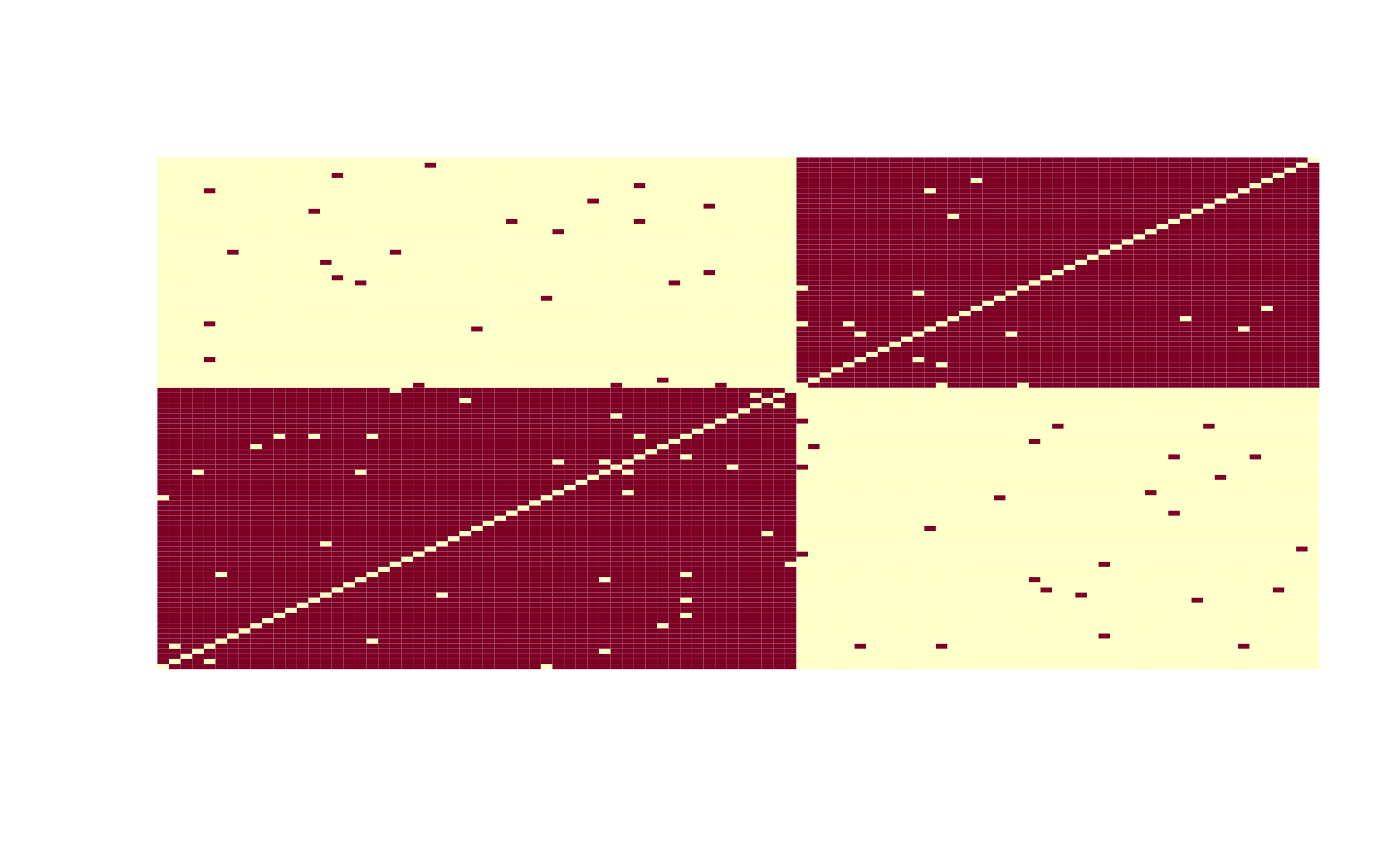
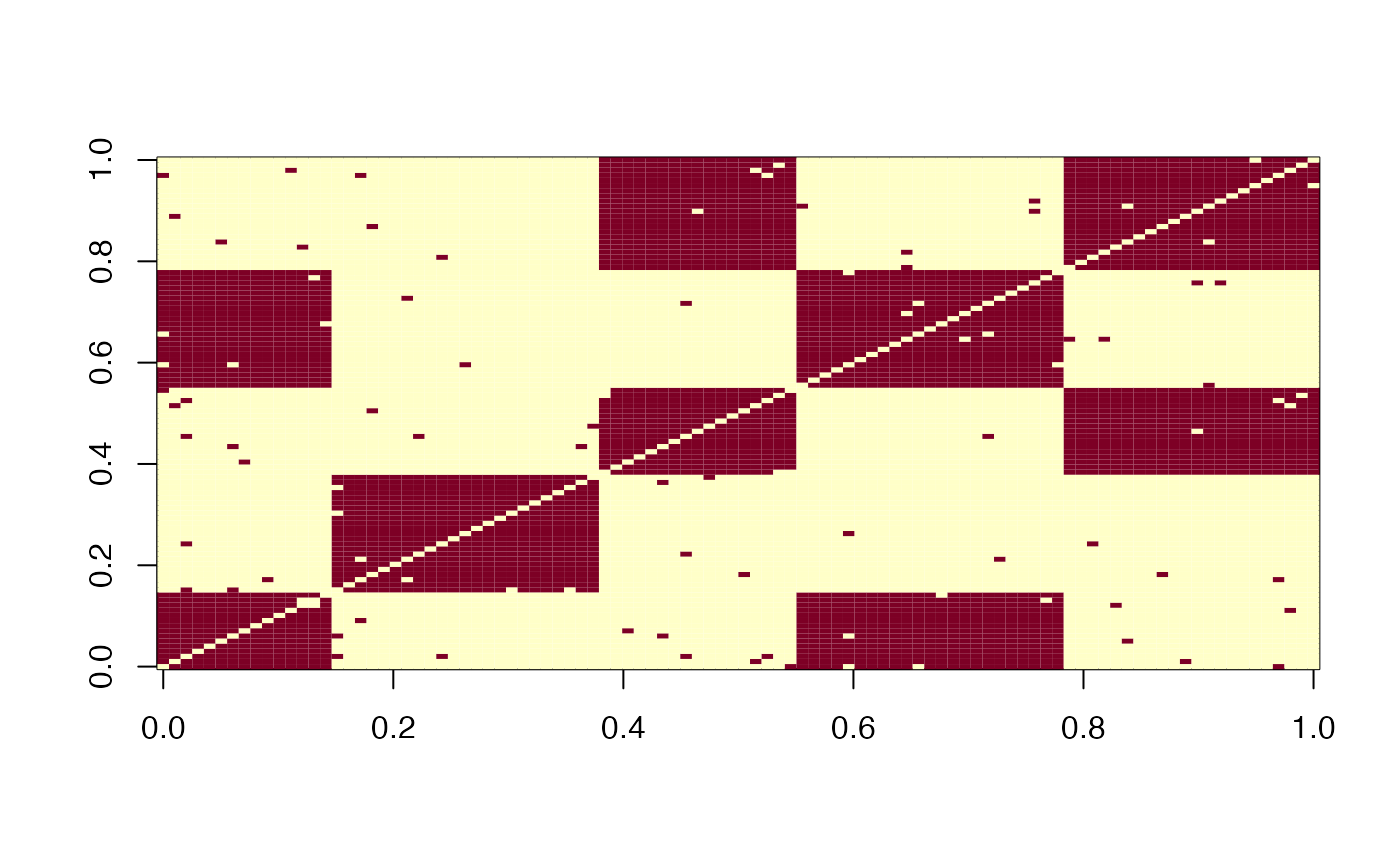
Update Vignette

diff --git a/docs/articles/Simulations.html b/docs/articles/Simulations.html
@@ -107,10 +107,17 @@
 <code class="sourceCode R"><span><span class="va">res</span> <span class="op">&lt;-</span> <span class="fu"><a href="../reference/rSMB_partition.html">rSMB_partition</a></span><span class="op">(</span>N <span class="op">=</span> <span class="va">N</span>,V <span class="op">=</span> <span class="va">V</span>,K <span class="op">=</span> <span class="va">K</span>,pi_k <span class="op">=</span> <span class="va">pi_k</span>,rho <span class="op">=</span> <span class="va">rho</span>,sorted <span class="op">=</span> <span class="va">sorted</span>,p_switch <span class="op">=</span> <span class="va">p_switch</span><span class="op">)</span></span></code></pre></div>
 <p>With the <code>plot_adjacency</code>function, adjacency matrices can be shown, and and linked to the parameters used for simulation.</p>
 <div class="sourceCode" id="cb4"><pre class="downlit sourceCode r">
-<code class="sourceCode R"><span><span class="fu"><a href="../reference/plot_adjacency.html">plot_adjacency</a></span><span class="op">(</span><span class="va">res</span><span class="op">$</span><span class="va">simulation</span><span class="op">$</span><span class="va">A</span><span class="op">)</span></span></code></pre></div>
-<p><img src="Simulations_files/figure-html/unnamed-chunk-4-1.png" width="700"><img src="Simulations_files/figure-html/unnamed-chunk-4-2.png" width="700"><img src="Simulations_files/figure-html/unnamed-chunk-4-3.png" width="700"><img src="Simulations_files/figure-html/unnamed-chunk-4-4.png" width="700"><img src="Simulations_files/figure-html/unnamed-chunk-4-5.png" width="700"><img src="Simulations_files/figure-html/unnamed-chunk-4-6.png" width="700"><img src="Simulations_files/figure-html/unnamed-chunk-4-7.png" width="700"><img src="Simulations_files/figure-html/unnamed-chunk-4-8.png" width="700"><img src="Simulations_files/figure-html/unnamed-chunk-4-9.png" width="700"><img src="Simulations_files/figure-html/unnamed-chunk-4-10.png" width="700"><img src="Simulations_files/figure-html/unnamed-chunk-4-11.png" width="700"></p>
-<p>In this simulation, we have 3 types of adjacency matrices, depending precisely on the mixture from which they are derived. From the <code>clusters</code> variable in the simulation we can see the link between true clustering and that partially accessible through simulated views.</p>
+<code class="sourceCode R"><span><span class="co">#plot_adjacency(res$simulation$A)</span></span>
+<span><span class="fu"><a href="https://rdrr.io/r/graphics/image.html" class="external-link">image</a></span><span class="op">(</span><span class="va">res</span><span class="op">$</span><span class="va">simulation</span><span class="op">$</span><span class="va">A</span><span class="op">[</span>,,<span class="fl">1</span><span class="op">]</span><span class="op">)</span></span></code></pre></div>
+<p><img src="Simulations_files/figure-html/unnamed-chunk-4-1.png" width="700"></p>
 <div class="sourceCode" id="cb5"><pre class="downlit sourceCode r">
+<code class="sourceCode R"><span><span class="fu"><a href="https://rdrr.io/r/graphics/image.html" class="external-link">image</a></span><span class="op">(</span><span class="va">res</span><span class="op">$</span><span class="va">simulation</span><span class="op">$</span><span class="va">A</span><span class="op">[</span>,,<span class="fl">3</span><span class="op">]</span><span class="op">)</span></span></code></pre></div>
+<p><img src="Simulations_files/figure-html/unnamed-chunk-4-2.png" width="700"></p>
+<div class="sourceCode" id="cb6"><pre class="downlit sourceCode r">
+<code class="sourceCode R"><span><span class="fu"><a href="https://rdrr.io/r/graphics/image.html" class="external-link">image</a></span><span class="op">(</span><span class="va">res</span><span class="op">$</span><span class="va">simulation</span><span class="op">$</span><span class="va">A</span><span class="op">[</span>,,<span class="fl">10</span><span class="op">]</span><span class="op">)</span></span></code></pre></div>
+<p><img src="Simulations_files/figure-html/unnamed-chunk-4-3.png" width="700"></p>
+<p>In this simulation, we have 3 types of adjacency matrices, depending precisely on the mixture from which they are derived. From the <code>clusters</code> variable in the simulation we can see the link between true clustering and that partially accessible through simulated views.</p>
+<div class="sourceCode" id="cb7"><pre class="downlit sourceCode r">
 <code class="sourceCode R"><span><span class="op">(</span><span class="va">clust</span> <span class="op">&lt;-</span> <span class="va">res</span><span class="op">$</span><span class="va">params</span><span class="op">$</span><span class="va">clusters</span><span class="op">)</span></span>
 <span><span class="co">#&gt; [[1]]</span></span>
 <span><span class="co">#&gt; [[1]][[1]]</span></span>
@@ -144,12 +151,12 @@
 <span><span class="co">#&gt; [[3]][[4]]</span></span>
 <span><span class="co">#&gt; [1] 2 3</span></span></code></pre></div>
 <p>This variable is difficult to understand at first glance, so we’ll explain its interpretation below.</p>
-<div class="sourceCode" id="cb6"><pre class="downlit sourceCode r">
+<div class="sourceCode" id="cb8"><pre class="downlit sourceCode r">
 <code class="sourceCode R"><span><span class="fu"><a href="https://rdrr.io/r/base/length.html" class="external-link">length</a></span><span class="op">(</span><span class="va">clust</span><span class="op">)</span></span>
 <span><span class="co">#&gt; [1] 3</span></span></code></pre></div>
 <p>This variable is a list with as many arguments as the number of components.</p>
 <p>Let’s take the example of the 1st element in the list:</p>
-<div class="sourceCode" id="cb7"><pre class="downlit sourceCode r">
+<div class="sourceCode" id="cb9"><pre class="downlit sourceCode r">
 <code class="sourceCode R"><span><span class="va">clust</span><span class="op">[[</span><span class="fl">1</span><span class="op">]</span><span class="op">]</span></span>
 <span><span class="co">#&gt; [[1]]</span></span>
 <span><span class="co">#&gt; [1] 1 2 3</span></span>
@@ -158,7 +165,7 @@
 <span><span class="co">#&gt; [1] 5 4</span></span></code></pre></div>
 <p>The adjacency matrices resulting from the 1st component will therefore have 2 clusters. In addition, based on true clustering, we associate the cluster observed in this component: - Clusters 1, 2 and 3 are in fact a single cluster, cluster 1, of this component. - Cluster 4 and 5 correspond to the cluster 2 for this component.</p>
 <p>If we look at the connection tensor linked to this simulation, we find the main structures observed previously.</p>
-<div class="sourceCode" id="cb8"><pre class="downlit sourceCode r">
+<div class="sourceCode" id="cb10"><pre class="downlit sourceCode r">
 <code class="sourceCode R"><span><span class="fu"><a href="https://rdrr.io/r/base/lapply.html" class="external-link">sapply</a></span><span class="op">(</span><span class="fl">1</span><span class="op">:</span><span class="fl">3</span>,<span class="kw">function</span><span class="op">(</span><span class="va">s</span><span class="op">)</span><span class="op">{</span><span class="fu"><a href="https://rdrr.io/r/graphics/image.html" class="external-link">image</a></span><span class="op">(</span><span class="va">res</span><span class="op">$</span><span class="va">params</span><span class="op">$</span><span class="va">alpha_klq</span><span class="op">[</span>,,<span class="va">s</span><span class="op">]</span><span class="op">)</span><span class="op">}</span><span class="op">)</span></span></code></pre></div>
 <p><img src="Simulations_files/figure-html/unnamed-chunk-8-1.png" width="700"><img src="Simulations_files/figure-html/unnamed-chunk-8-2.png" width="700"><img src="Simulations_files/figure-html/unnamed-chunk-8-3.png" width="700"></p>
 <pre><code><span><span class="co">#&gt; [[1]]</span></span>
@@ -178,7 +185,7 @@
 <h4 id="setup-of-parameters-1">Setup of parameters<a class="anchor" aria-label="anchor" href="#setup-of-parameters-1"></a>
 </h4>
 <p>This time we’ll set the label-switching to <span class="math inline">\(10\%\)</span>, the probability that an individual will be associated with the wrong cluster when the adjacency matrix is created.</p>
-<div class="sourceCode" id="cb10"><pre class="downlit sourceCode r">
+<div class="sourceCode" id="cb12"><pre class="downlit sourceCode r">
 <code class="sourceCode R"><span><span class="fu"><a href="https://rdrr.io/r/base/Random.html" class="external-link">set.seed</a></span><span class="op">(</span><span class="fl">42</span><span class="op">)</span></span>
 <span><span class="va">N</span> <span class="op">&lt;-</span> <span class="fl">100</span></span>
 <span><span class="va">V</span> <span class="op">&lt;-</span> <span class="fl">10</span></span>
@@ -191,18 +198,32 @@
 <div class="section level4">
 <h4 id="simulation-1">Simulation<a class="anchor" aria-label="anchor" href="#simulation-1"></a>
 </h4>
-<div class="sourceCode" id="cb11"><pre class="downlit sourceCode r">
+<div class="sourceCode" id="cb13"><pre class="downlit sourceCode r">
 <code class="sourceCode R"><span><span class="va">res</span> <span class="op">&lt;-</span> <span class="fu"><a href="../reference/rSMB_partition.html">rSMB_partition</a></span><span class="op">(</span>N <span class="op">=</span> <span class="va">N</span>,V <span class="op">=</span> <span class="va">V</span>,K <span class="op">=</span> <span class="va">K</span>,pi_k <span class="op">=</span> <span class="va">pi_k</span>,rho <span class="op">=</span> <span class="va">rho</span>,sorted <span class="op">=</span> <span class="va">sorted</span>,p_switch <span class="op">=</span> <span class="va">p_switch</span><span class="op">)</span></span></code></pre></div>
 <p>With the <code>plot_adjacency</code>function, adjacency matrices can be shown, and and linked to the parameters used for simulation.</p>
-<div class="sourceCode" id="cb12"><pre class="downlit sourceCode r">
-<code class="sourceCode R"><span><span class="fu"><a href="../reference/plot_adjacency.html">plot_adjacency</a></span><span class="op">(</span><span class="va">res</span><span class="op">$</span><span class="va">simulation</span><span class="op">$</span><span class="va">A</span><span class="op">)</span></span></code></pre></div>
-<p><img src="Simulations_files/figure-html/unnamed-chunk-11-1.png" width="700"><img src="Simulations_files/figure-html/unnamed-chunk-11-2.png" width="700"><img src="Simulations_files/figure-html/unnamed-chunk-11-3.png" width="700"><img src="Simulations_files/figure-html/unnamed-chunk-11-4.png" width="700"><img src="Simulations_files/figure-html/unnamed-chunk-11-5.png" width="700"><img src="Simulations_files/figure-html/unnamed-chunk-11-6.png" width="700"><img src="Simulations_files/figure-html/unnamed-chunk-11-7.png" width="700"><img src="Simulations_files/figure-html/unnamed-chunk-11-8.png" width="700"><img src="Simulations_files/figure-html/unnamed-chunk-11-9.png" width="700"><img src="Simulations_files/figure-html/unnamed-chunk-11-10.png" width="700"><img src="Simulations_files/figure-html/unnamed-chunk-11-11.png" width="700"></p>
+<div class="sourceCode" id="cb14"><pre class="downlit sourceCode r">
+<code class="sourceCode R"><span><span class="co">#plot_adjacency(res$simulation$A)</span></span>
+<span><span class="fu"><a href="https://rdrr.io/r/graphics/image.html" class="external-link">image</a></span><span class="op">(</span><span class="va">res</span><span class="op">$</span><span class="va">simulation</span><span class="op">$</span><span class="va">A</span><span class="op">[</span>,,<span class="fl">1</span><span class="op">]</span><span class="op">)</span></span></code></pre></div>
+<p><img src="Simulations_files/figure-html/unnamed-chunk-11-1.png" width="700"></p>
+<div class="sourceCode" id="cb15"><pre class="downlit sourceCode r">
+<code class="sourceCode R"><span><span class="fu"><a href="https://rdrr.io/r/graphics/image.html" class="external-link">image</a></span><span class="op">(</span><span class="va">res</span><span class="op">$</span><span class="va">simulation</span><span class="op">$</span><span class="va">A</span><span class="op">[</span>,,<span class="fl">3</span><span class="op">]</span><span class="op">)</span></span></code></pre></div>
+<p><img src="Simulations_files/figure-html/unnamed-chunk-11-2.png" width="700"></p>
+<div class="sourceCode" id="cb16"><pre class="downlit sourceCode r">
+<code class="sourceCode R"><span><span class="fu"><a href="https://rdrr.io/r/graphics/image.html" class="external-link">image</a></span><span class="op">(</span><span class="va">res</span><span class="op">$</span><span class="va">simulation</span><span class="op">$</span><span class="va">A</span><span class="op">[</span>,,<span class="fl">10</span><span class="op">]</span><span class="op">)</span></span></code></pre></div>
+<p><img src="Simulations_files/figure-html/unnamed-chunk-11-3.png" width="700"></p>
 <p>Compared with the previous simulation, there’s a clear disturbance in the adjacency matrices. However, the main structures are preserved.</p>
 <p>What’s more, here we can still recognize these structures because the observations have been ordered according to their clusters. If we replace the parameter with <code>FALSE</code>, we’ll not be able to recognize structures easily.</p>
-<div class="sourceCode" id="cb13"><pre class="downlit sourceCode r">
+<div class="sourceCode" id="cb17"><pre class="downlit sourceCode r">
 <code class="sourceCode R"><span><span class="va">res</span> <span class="op">&lt;-</span> <span class="fu"><a href="../reference/rSMB_partition.html">rSMB_partition</a></span><span class="op">(</span>N <span class="op">=</span> <span class="va">N</span>,V <span class="op">=</span> <span class="va">V</span>,K <span class="op">=</span> <span class="va">K</span>,pi_k <span class="op">=</span> <span class="va">pi_k</span>,rho <span class="op">=</span> <span class="va">rho</span>,sorted <span class="op">=</span> <span class="cn">FALSE</span>,p_switch <span class="op">=</span> <span class="va">p_switch</span><span class="op">)</span></span>
-<span><span class="fu"><a href="../reference/plot_adjacency.html">plot_adjacency</a></span><span class="op">(</span><span class="va">res</span><span class="op">$</span><span class="va">simulation</span><span class="op">$</span><span class="va">A</span><span class="op">)</span></span></code></pre></div>
-<p><img src="Simulations_files/figure-html/unnamed-chunk-12-1.png" width="700"><img src="Simulations_files/figure-html/unnamed-chunk-12-2.png" width="700"><img src="Simulations_files/figure-html/unnamed-chunk-12-3.png" width="700"><img src="Simulations_files/figure-html/unnamed-chunk-12-4.png" width="700"><img src="Simulations_files/figure-html/unnamed-chunk-12-5.png" width="700"><img src="Simulations_files/figure-html/unnamed-chunk-12-6.png" width="700"><img src="Simulations_files/figure-html/unnamed-chunk-12-7.png" width="700"><img src="Simulations_files/figure-html/unnamed-chunk-12-8.png" width="700"><img src="Simulations_files/figure-html/unnamed-chunk-12-9.png" width="700"><img src="Simulations_files/figure-html/unnamed-chunk-12-10.png" width="700"><img src="Simulations_files/figure-html/unnamed-chunk-12-11.png" width="700"></p>
+<span><span class="co">#plot_adjacency(res$simulation$A)</span></span>
+<span><span class="fu"><a href="https://rdrr.io/r/graphics/image.html" class="external-link">image</a></span><span class="op">(</span><span class="va">res</span><span class="op">$</span><span class="va">simulation</span><span class="op">$</span><span class="va">A</span><span class="op">[</span>,,<span class="fl">1</span><span class="op">]</span><span class="op">)</span></span></code></pre></div>
+<p><img src="Simulations_files/figure-html/unnamed-chunk-12-1.png" width="700"></p>
+<div class="sourceCode" id="cb18"><pre class="downlit sourceCode r">
+<code class="sourceCode R"><span><span class="fu"><a href="https://rdrr.io/r/graphics/image.html" class="external-link">image</a></span><span class="op">(</span><span class="va">res</span><span class="op">$</span><span class="va">simulation</span><span class="op">$</span><span class="va">A</span><span class="op">[</span>,,<span class="fl">3</span><span class="op">]</span><span class="op">)</span></span></code></pre></div>
+<p><img src="Simulations_files/figure-html/unnamed-chunk-12-2.png" width="700"></p>
+<div class="sourceCode" id="cb19"><pre class="downlit sourceCode r">
+<code class="sourceCode R"><span><span class="fu"><a href="https://rdrr.io/r/graphics/image.html" class="external-link">image</a></span><span class="op">(</span><span class="va">res</span><span class="op">$</span><span class="va">simulation</span><span class="op">$</span><span class="va">A</span><span class="op">[</span>,,<span class="fl">10</span><span class="op">]</span><span class="op">)</span></span></code></pre></div>
+<p><img src="Simulations_files/figure-html/unnamed-chunk-12-3.png" width="700"></p>
 </div>
 </div>
 </div>

diff --git a/docs/reference/lab_switching.html b/docs/reference/lab_switching.html
@@ -82,10 +82,10 @@
 <span class="r-in"><span><span class="fu"><a href="https://rdrr.io/r/base/table.html" class="external-link">table</a></span><span class="op">(</span><span class="st">"Initial clustering"</span> <span class="op">=</span> <span class="va">Z</span>,<span class="st">"Perturbed clustering"</span> <span class="op">=</span> <span class="va">Z_pert</span><span class="op">)</span></span></span>
 <span class="r-out co"><span class="r-pr">#&gt;</span>                   Perturbed clustering</span>
 <span class="r-out co"><span class="r-pr">#&gt;</span> Initial clustering  1  2  3  4</span>
-<span class="r-out co"><span class="r-pr">#&gt;</span>                  1 21  0  1  0</span>
-<span class="r-out co"><span class="r-pr">#&gt;</span>                  2  2 34  1  1</span>
-<span class="r-out co"><span class="r-pr">#&gt;</span>                  3  0  1 16  0</span>
-<span class="r-out co"><span class="r-pr">#&gt;</span>                  4  1  2  0 20</span>
+<span class="r-out co"><span class="r-pr">#&gt;</span>                  1 27  0  1  0</span>
+<span class="r-out co"><span class="r-pr">#&gt;</span>                  2  0 23  1  0</span>
+<span class="r-out co"><span class="r-pr">#&gt;</span>                  3  0  0 23  2</span>
+<span class="r-out co"><span class="r-pr">#&gt;</span>                  4  0  0  1 22</span>
 </code></pre></div>
     </div>
   </div>

diff --git a/docs/reference/CEM.html b/docs/reference/CEM.html
@@ -76,9 +76,9 @@
 <span class="r-in"><span><span class="va">Z_cem</span> <span class="op">&lt;-</span> <span class="fu">CEM</span><span class="op">(</span><span class="va">Z</span><span class="op">)</span></span></span>
 <span class="r-in"><span><span class="fu"><a href="https://rdrr.io/r/base/print.html" class="external-link">print</a></span><span class="op">(</span><span class="va">Z_cem</span><span class="op">)</span></span></span>
 <span class="r-out co"><span class="r-pr">#&gt;</span>      [,1] [,2] [,3] [,4]</span>
-<span class="r-out co"><span class="r-pr">#&gt;</span> [1,]    0    0    1    0</span>
-<span class="r-out co"><span class="r-pr">#&gt;</span> [2,]    1    0    0    0</span>
-<span class="r-out co"><span class="r-pr">#&gt;</span> [3,]    1    0    0    0</span>
+<span class="r-out co"><span class="r-pr">#&gt;</span> [1,]    0    0    0    1</span>
+<span class="r-out co"><span class="r-pr">#&gt;</span> [2,]    0    0    1    0</span>
+<span class="r-out co"><span class="r-pr">#&gt;</span> [3,]    0    1    0    0</span>
 </code></pre></div>
     </div>
   </div>
